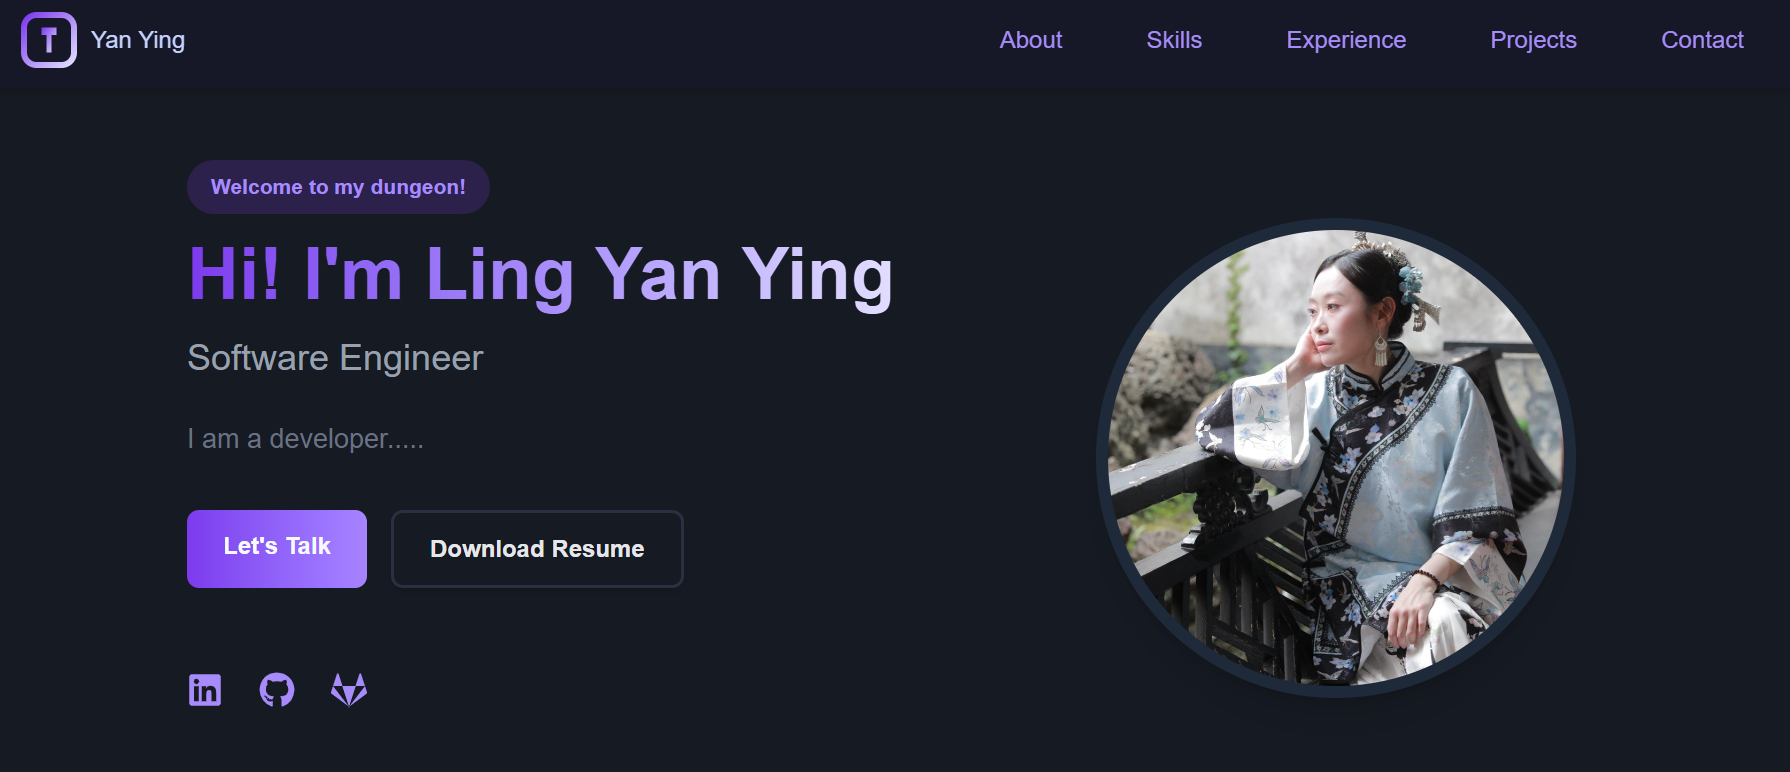
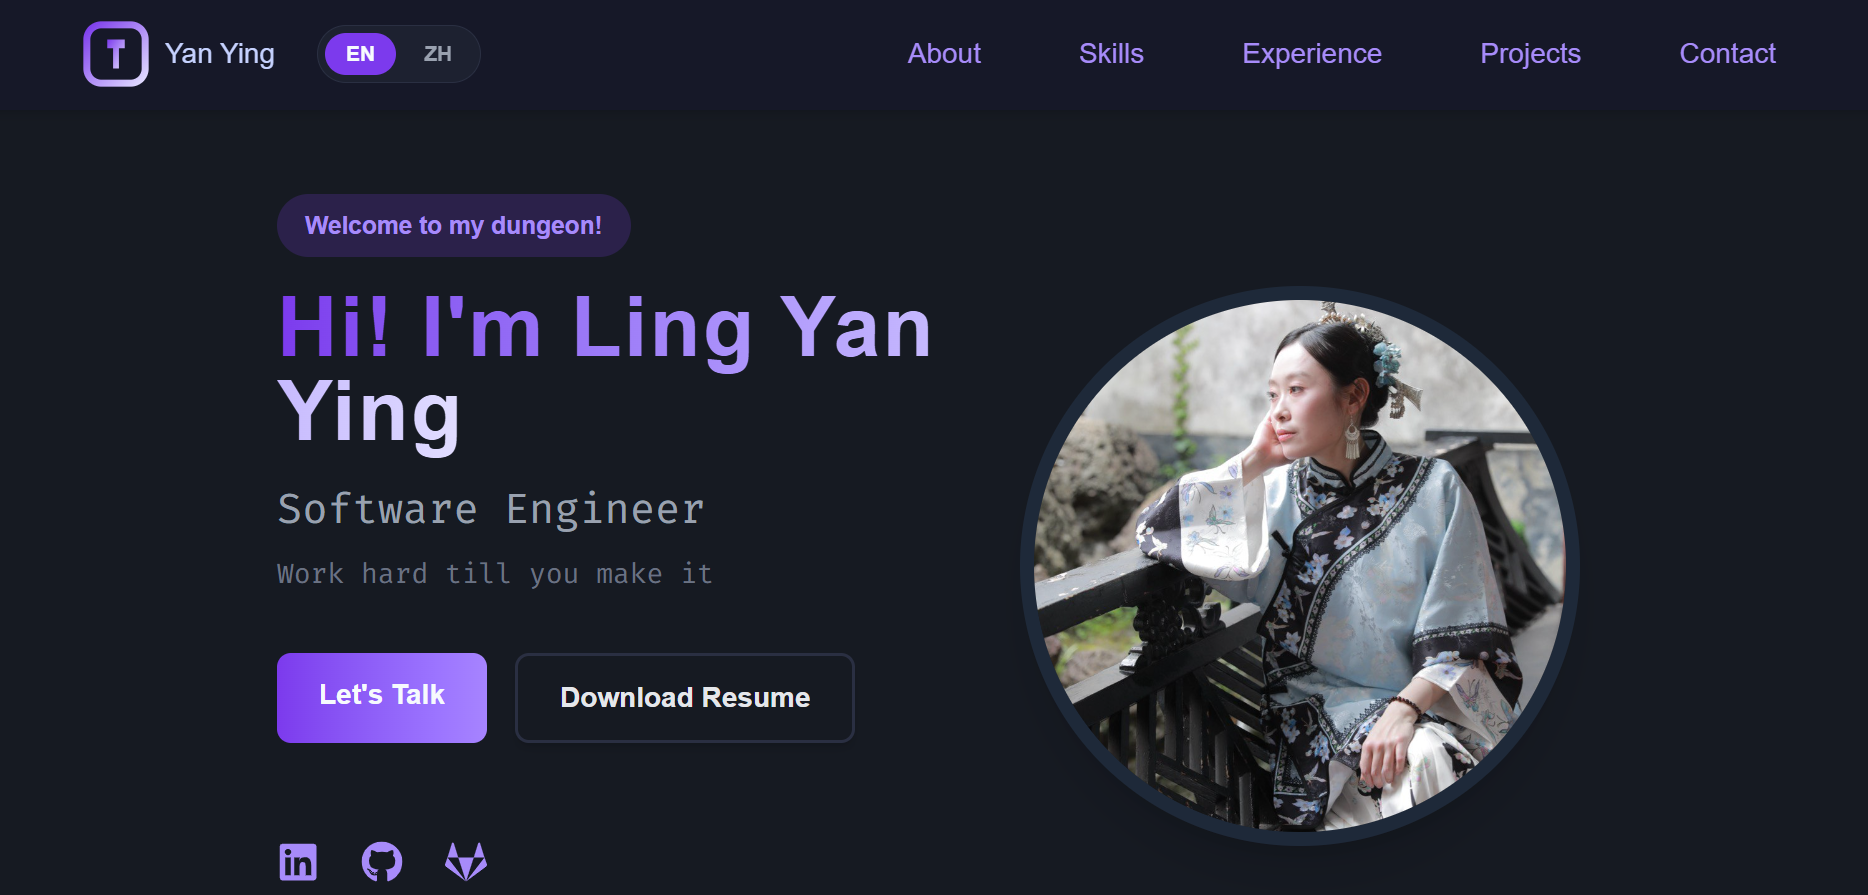
Update: new portfolio website image and add project function return type

diff --git a/src/app/[locale]/projects/[slug]/page.js b/src/app/[locale]/projects/[slug]/page.js
@@ -1,4 +1,3 @@
-import { getDictionary } from '@/lib/dictionary';
 import { notFound } from 'next/navigation';
 import { TbArrowBackUp } from "react-icons/tb";
 import { FaArrowLeft, FaArrowRight } from "react-icons/fa6";
@@ -6,14 +5,19 @@ import { FaArrowLeft, FaArrowRight } from "react-icons/fa6";
 
 import Image from 'next/image'
 import { BadgesDisplay } from '@/components/ui/Badge'
-import { ButtonWithIcon, BaseButton, DisabledButton } from '@/components/ui/Buttons/Button'
+import { BaseButton, DisabledButton } from '@/components/ui/Buttons/Button'
 import { LocaleHelper } from '@/lib/utils/localehelper';
 import { Project } from '@/lib/models/Project.class';
 
 export default async function ProjectPage({ params }) {
     const { locale, slug } = await params;
-    // const projects = Project.getAllProjectData(locale);
     const currentProject = Project.findBySlug(locale, slug);
+
+    // Handle missing projects
+    if (!currentProject) {
+        notFound(); // Shows 404 page
+    }
+
     const prevProject = Project.findPreviousById(locale, currentProject.id);
     const nextProject = Project.findNextById(locale, currentProject.id);
 
@@ -21,11 +25,6 @@ export default async function ProjectPage({ params }) {
     const disableNextBtn = currentProject.id === nextProject.id;
 
     const localeHelper = new LocaleHelper(`/${locale}`);
-
-    // Handle missing projects
-    if (!currentProject) {
-        notFound(); // Shows 404 page
-    }
 
     return (
         <section className="page-container">
@@ -43,7 +42,6 @@ export default async function ProjectPage({ params }) {
                     />
                 </div>
 
-
                 {/* Project Image */}
                 <Image
                     src={`/images/projects/${currentProject.image}`}
@@ -55,10 +53,8 @@ export default async function ProjectPage({ params }) {
 
                 {/* Project Content */}
                 <div className='w-full page-content'>
-                    {/* TODO: Add Descriptions */}
                     <p className="text-gray-400 text-sm leading-relaxed">{currentProject.description}</p>
                     {/* TODO: Add Link To Website */}
-                    {/* TODO: Add Tags */}
                     <BadgesDisplay labelArray={currentProject.tags} />
 
                 </div>

diff --git a/src/app/[locale]/layout.js b/src/app/[locale]/layout.js
@@ -16,7 +16,9 @@ const firaCode = Fira_Code({
 export const metadata = {
   title: "Tracie Ling Yan Ying's Portfolio Website",
   description: "Ling Yan Ying's Software Engineer Portfolio Website",
-  keywords: ["Tracie Ling", "Ling Yan Ying", "Yan Ying", "Software Engineer", "林妍影", "软件工程师", "代码"],
+  keywords: ["Tracie Ling", "Ling Yan Ying",
+    "Yan Ying", "Software Engineer",
+    "Software Developer", "Backend Engineer", "林妍影", "软件工程师", "后端开发工程师", "后端工程师", "代码"],
   authors: [{ name: "Tracie Ling Yan Ying" }],
   alternates: {
     canonical: "https://tracielyy.com/en",
@@ -46,7 +48,7 @@ export default async function RootLayout({ children, params }) {
   }
 
   return (
-    <html lang={locale} /* className="dark" */>
+    <html lang={locale}>
       <body className={`${locale} main-theme ${firaCode.variable}`}>
         <Header locale={locale} />
         {children}

diff --git a/src/lib/models/Project.class.js b/src/lib/models/Project.class.js
@@ -37,7 +37,7 @@ export class Project {
      * Find current project when given slug
      * @param locale {string}
      * @param slug {string}
-     * @returns {Project} project
+     * @returns {Project | undefined} project
      */
     static findBySlug(locale, slug) {
         const projects = this.getAllProjects(locale);
